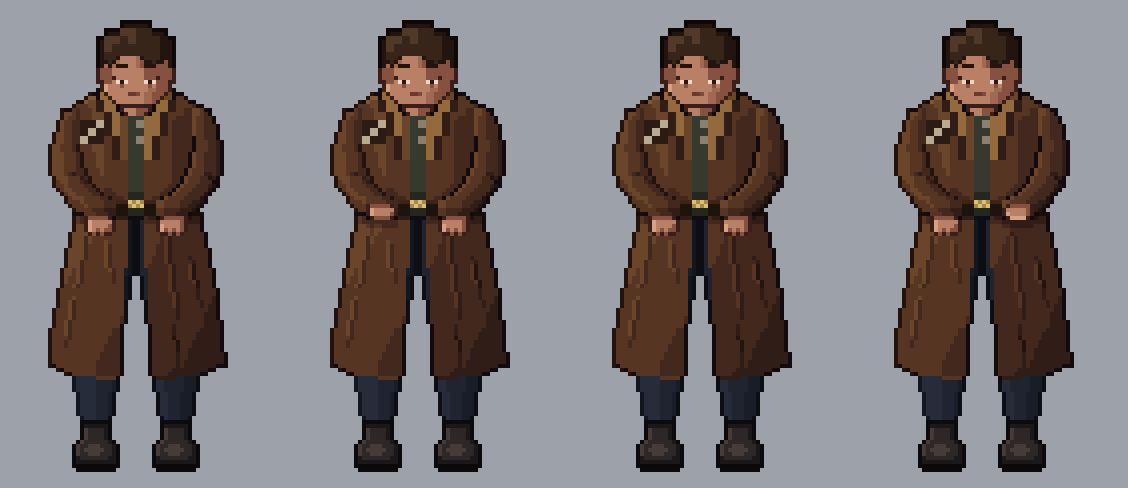
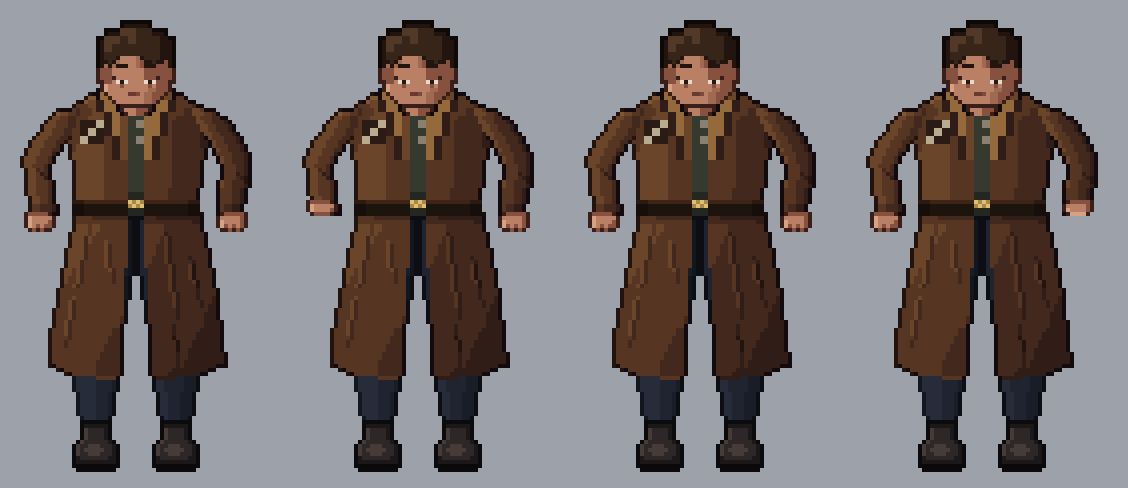
GATOS drifter typing: elbows out, hands pressing at the hips as crew sheets do; console mockup removed
Claude-Session: https://claude.ai/code/session_01WZGEuQ1NEBVidT9MSQSZ2z

Changed region(s): [[0.0, 0.2152, 0.9929, 0.4918]]

diff --git a/docs/art/terran/crew/tools/type_anim.py b/docs/art/terran/crew/tools/type_anim.py
@@ -1,14 +1,13 @@
-"""The 2x drifter typing at a console in front of him, at the sprite's own angle (facing the viewer, seen from about
-45 degrees above): four frames, as the Mecha crew's "type down" row does them: both hands on the keys, the near hand
-lifted, both on the keys again, the far hand lifted.
+"""The 2x drifter typing, at the sprite's own angle (facing the viewer, seen from about 45 degrees above): four
+frames, as the crew sheets' "type down" rows do them: both hands down, the near hand lifted, both down, the far hand
+lifted. There is no console in the sprite: the console belongs to the room art, and the crew stands on its tile.
 
-The pose comes from the finished standing sprite (`hires2.build`): the coat and sleeves are redrawn by `coat3` with
-the sleeves bent, the upper arms hanging to the elbows and the forearms coming forward and in toward the console (from
-above, a forearm pointing at the viewer looks short and slanted), then the hands are drawn on the keys, seen from
-above as the backs of the hands with the fingertips down.
+Typing facing down is drawn as in the crew sheets: the elbows go out to the sides, and the hands come down at hip
+level outside the body, palms down, pressing alternately. The pose comes from the finished standing sprite
+(`hires2.build`): the coat and sleeves are redrawn by `coat3` with the sleeves bent out, then the hands are drawn,
+seen from above as the backs of the hands with the fingertips down.
 
-Usage: python3 type_anim.py OUT_DIR    (frame SVGs, a strip and an animated preview, and the same over a labelled
-                                        console mockup for review)"""
+Usage: python3 type_anim.py OUT_DIR    (frame SVGs, a strip and an animated preview)"""
 import os
 import sys
 sys.path.insert(0, os.path.dirname(os.path.abspath(__file__)))
@@ -18,9 +17,10 @@ import hires2
 import qa
 from hires import ramp7, rgbhex
 
-# the near sleeve bent for typing, clockwise from the shoulder; the far sleeve is its mirror image
-TYPE_SLEEVE = [(53.5, 33.8), (51, 35), (49.5, 38.5), (48.4, 45), (47.6, 50), (49, 54), (54, 59.5), (57, 61.6),
-               (63.6, 61.6), (64, 57.5), (59, 53.5), (55.6, 48), (55, 43), (54.8, 37), (54.6, 34.5)]
+# the near sleeve bent for typing, clockwise from the shoulder: the elbow out to the side, the forearm coming down
+# to the hip; the far sleeve is its mirror image
+TYPE_SLEEVE = [(53.5, 33.8), (50, 35), (46.5, 38), (43.5, 42), (41, 47), (41.5, 53), (43, 60.6), (49.5, 60.6),
+               (48.8, 55), (48.2, 50), (50, 45.5), (52.5, 42), (54, 38), (54.6, 34.5)]
 # the back of the near hand on the keys, from above: "w" the wrist in the cuff's shadow, "f" the fingers, the thumb on
 # the body side (right); the far hand is its mirror image, still lit from the left
 HAND_DOWN = ["kwwwwwk.",
@@ -28,14 +28,12 @@ HAND_DOWN = ["kwwwwwk.",
              "kLssssSk",
              "kLsfsfSk",
              ".kfkfkk."]
-# lifted off the keys: three pixels higher (less doesn't read as a keystroke), the fingers curled up under the hand so it looks shorter
+# lifted: three pixels higher (less doesn't read as a keystroke), the fingers curled under so the hand looks shorter
 HAND_UP = ["kwwwwwk.",
            "kLsssssk",
            "kLssssSk",
            ".kSSSSk."]
-HAND_X, HAND_Y = 57, 62                  # the near hand's top-left corner, just under the cuff: forward of the body,
-                                         # which from above is lower on the screen than the belt;
-                                         # the hands close together near the middle, as at a keyboard
+HAND_X, HAND_Y = 42, 61                  # the near hand's top-left corner, just under the cuff, at the hip
 FRAMES = [("down", "down"), ("up", "down"), ("down", "down"), ("down", "up")]    # (near hand, far hand)
 PROTECTED = ["buckle", "lapel-near", "lapel-far", "emblem", "eye", "mouth", "button"]
 
@@ -95,17 +93,6 @@ def look_down(out, parts):
     return out, parts
 
 
-def console_mockup(out):
-    """For review only (a mockup, not part of the sprite): a plain console in front of him at hand height, since a
-    typing pose can't be judged with nothing to type on."""
-    out = dict(out)
-    for x in range(50, 90):
-        for y in range(64, 84):
-            top = y < 68
-            out[(x, y)] = "#0a0a0e" if (x in (50, 89) or y in (64, 83)) else ("#5a6270" if top else "#2a2f38")
-    return out
-
-
 def frames():
     stand, sparts, _ = hires2.build()
     ramp = [rgbhex(t) for t in ramp7(C.DUSTER)]
@@ -128,14 +115,8 @@ if __name__ == "__main__":
     from PIL import Image
     out_dir = sys.argv[1]; os.makedirs(out_dir, exist_ok=True)
     stand, result = frames()
-    images, mock = [], []
+    images = []
     for n, (px, parts) in enumerate(result):
-        m = console_mockup(px)
-        m.update({p: c for p, c in px.items() if parts.get(p) in ("hand-near", "hand-far")})
-        im = Image.new("RGB", (140, 140), (157, 162, 170))
-        for p, c in m.items():
-            im.putpixel(p, tuple(int(c[i:i + 2], 16) for i in (1, 3, 5)))
-        mock.append(im.crop((36, 8, 104, 130)).resize((68 * 4, 122 * 4), Image.NEAREST))
         open(os.path.join(out_dir, f"drifter-2x-type-down-{n}.svg"), "w").write(
             f'<svg xmlns="http://www.w3.org/2000/svg" viewBox="0 0 140 140" width="560" height="560" '
             f'shape-rendering="crispEdges">{paths(px)}</svg>\n')
@@ -147,11 +128,5 @@ if __name__ == "__main__":
     for n, im in enumerate(images):
         strip.paste(im, (n * (im.width + 10), 0))
     strip.save(os.path.join(out_dir, "drifter-2x-type-down-strip.png"))
-    strip = Image.new("RGB", (len(mock) * (mock[0].width + 10), mock[0].height), (157, 162, 170))
-    for n, im in enumerate(mock):
-        strip.paste(im, (n * (im.width + 10), 0))
-    strip.save(os.path.join(out_dir, "drifter-2x-type-down-console-mockup.png"))
-    mock[0].save(os.path.join(out_dir, "drifter-2x-type-down-console-mockup.gif"), save_all=True,
-                 append_images=mock[1:], duration=180, loop=0)
     images[0].save(os.path.join(out_dir, "drifter-2x-type-down.gif"), save_all=True, append_images=images[1:],
                    duration=180, loop=0)

diff --git a/docs/art/terran/crew/README.md b/docs/art/terran/crew/README.md
@@ -65,13 +65,13 @@ blind-checked seven times, last 6/10, still flagged: sleeves and hands read weak
 between the legs; then, heromedel: no nose, and the trench coat's ruffled hem flattened). Version B above (black outline added after shrinking) was rejected: "it clearly sucks".
 
 **Typing, facing the viewer (round 3e, 2026-10-28):** `tools/type_anim.py` makes four frames from the 2x drifter, as
-the Mecha crew's "type down" row: both hands on the keys, the near hand lifted, both down, the far hand lifted
-(`svg/drifter-2x-type-down-0.svg` … `-3.svg`, `review/drifter-2x-type-down-strip.png` and `.gif`). The sleeves bend,
-the forearms come forward and in (from above they look short and slanted, with a shadow line where they cross the
-coat), the hands rest close together below the belt (forward of the body is lower on the screen), and the head dips
-a pixel with the eyes lowered. Blind check without a console: read as idle or fidgeting, since there is nothing to
-type on; so a labelled console mockup (`docs/art/mockups/drifter-typing/drifter-2x-type-down-console-mockup.png`, not part of the
-sprite) shows the frames at a console.
+the crew sheets' "type down" rows do: both hands down, the near hand lifted, both down, the far hand lifted
+(`svg/drifter-2x-type-down-0.svg` … `-3.svg`, `review/drifter-2x-type-down-strip.png` and `.gif`). As in those rows,
+the elbows go out to the sides and the hands come down at the hips, palms down, pressing in turn (a lifted hand rises
+3 px with the fingers curled); the head dips a pixel with the eyes lowered. No console in the sprite: the console is
+room art, and the crew stands on its tile (a console mockup tried first was wrong, heromedel, and is removed). Blind
+check: reads as working only weakly without the console, and would bring the hands together in front; kept as the
+crew sheets do it unless heromedel prefers otherwise.
 
 **Faster tries:** `python3 tools/review.py OUT_DIR` builds the sprite with every goal and check and writes one review
 sheet (the figure enlarged, at 2x and true size, and close-ups of the head, a hand and the boots), in about 3 seconds.
